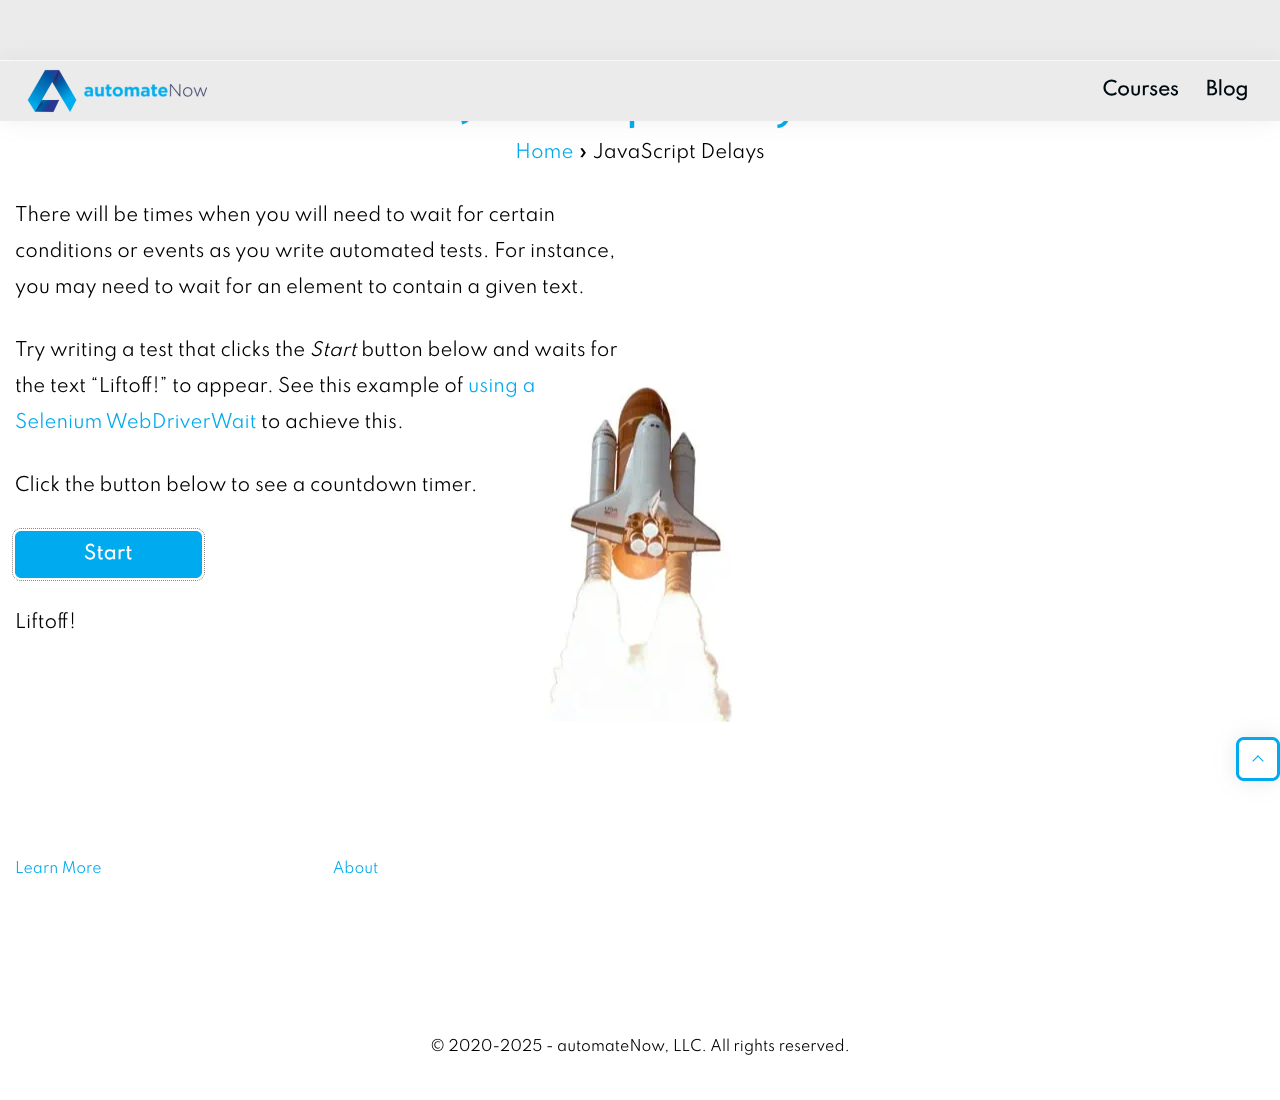
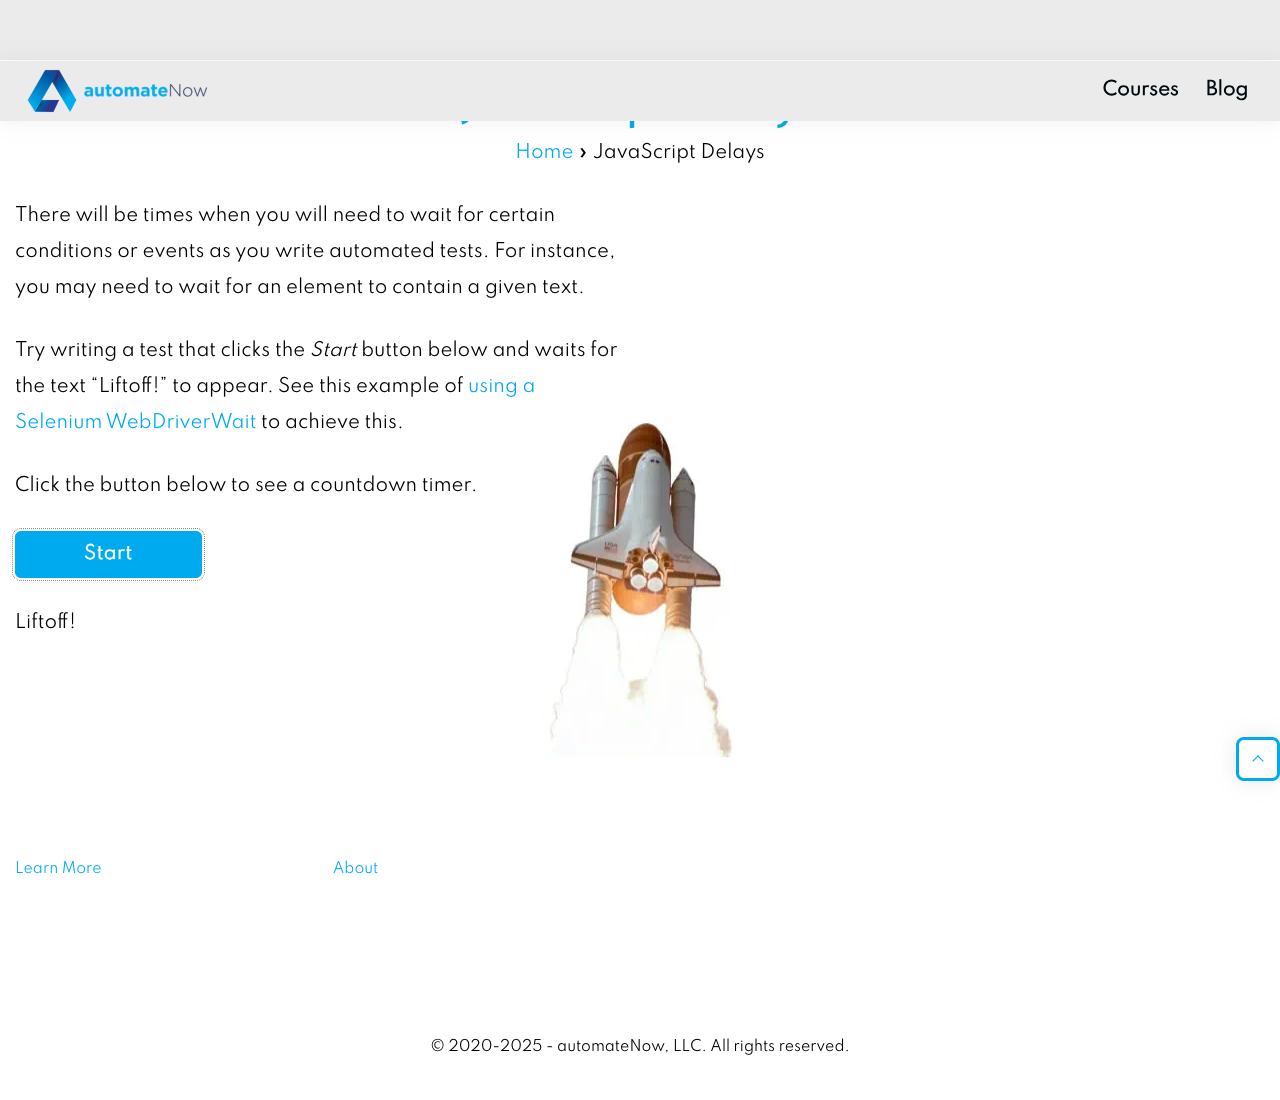
Commit 13

Changed region(s): [[0.4375, 0.34, 0.5938, 0.68]]

diff --git a/src/tests/practice.test.ts b/src/tests/practice.test.ts
@@ -262,6 +262,39 @@ test("ui test - frames", async ({ page }): Promise<void> => {
   await page.waitForTimeout(2000);
 });
 
+test("ui test - ads", async ({ page }): Promise<void> => {
+  await page.goto("https://practice-automation.com/ads/");
+  const ads: Locator = page.locator(
+    "//div[@id='popmake-1272']//button[@aria-label='Close'][normalize-space()='×']",
+  );
+  await ads.waitFor({ state: "visible" });
+  await ads.click();
+  await page.waitForTimeout(2000);
+});
+
+test("ui test - tables", async ({ page }): Promise<void> => {
+  await page.goto("https://practice-automation.com/tables/");
+  await page
+    .locator("(//span[normalize-space()='Population (million)'])[1]")
+    .click();
+  await page.waitForTimeout(2000);
+  const stringPopulation: string[] = await page
+    .locator("(//table[@id='tablepress-1'])[1]/tbody/tr/td[3]")
+    .allTextContents();
+  const numericPopulation: number[] = stringPopulation.map((p) => Number(p));
+
+  function isAscending(numericPopulation: number[]): boolean {
+    for (let i: number = 0; i < numericPopulation.length; i++) {
+      if (numericPopulation[i] > numericPopulation[i + 1]) {
+        return false;
+      }
+    }
+    return true;
+  }
+
+  expect(isAscending(numericPopulation)).toBeTruthy();
+});
+
 test("ui test - screenshots", async ({ page }): Promise<void> => {
   const pageScreenshotPath: string = path.join(
     "test-artifacts/screenshots",
@@ -350,6 +383,34 @@ test("ui test - broken links", async ({ page, request }): Promise<void> => {
       }
     } catch (e) {
       console.log(`Error getting link: ${e}`);
+    }
+  }
+});
+
+test("ui test - broken images", async ({ page, request }): Promise<void> => {
+  await page.goto("https://practice-automation.com/broken-images/");
+  await page.waitForLoadState("domcontentloaded");
+  const imagesLocator: Locator = page.locator("//img");
+  const count: number = await imagesLocator.count();
+
+  for (let i: number = 0; i < count; i++) {
+    const image: string = await imagesLocator.nth(i).getAttribute("src");
+    const imageUrl: any = image.startsWith("http")
+      ? image
+      : new URL(image, page.url()).href;
+    const response: APIResponse = await request.get(imageUrl);
+    try {
+      if (response.status() == 200) {
+        console.log(
+          `🟢 Valid image: ${image} , Status code: ${response.status()}`,
+        );
+      } else {
+        console.log(
+          `🔴 Broken image: ${image} , Status code: ${response.status()}`,
+        );
+      }
+    } catch (e) {
+      console.log(`Error getting image: ${e}`);
     }
   }
 });
